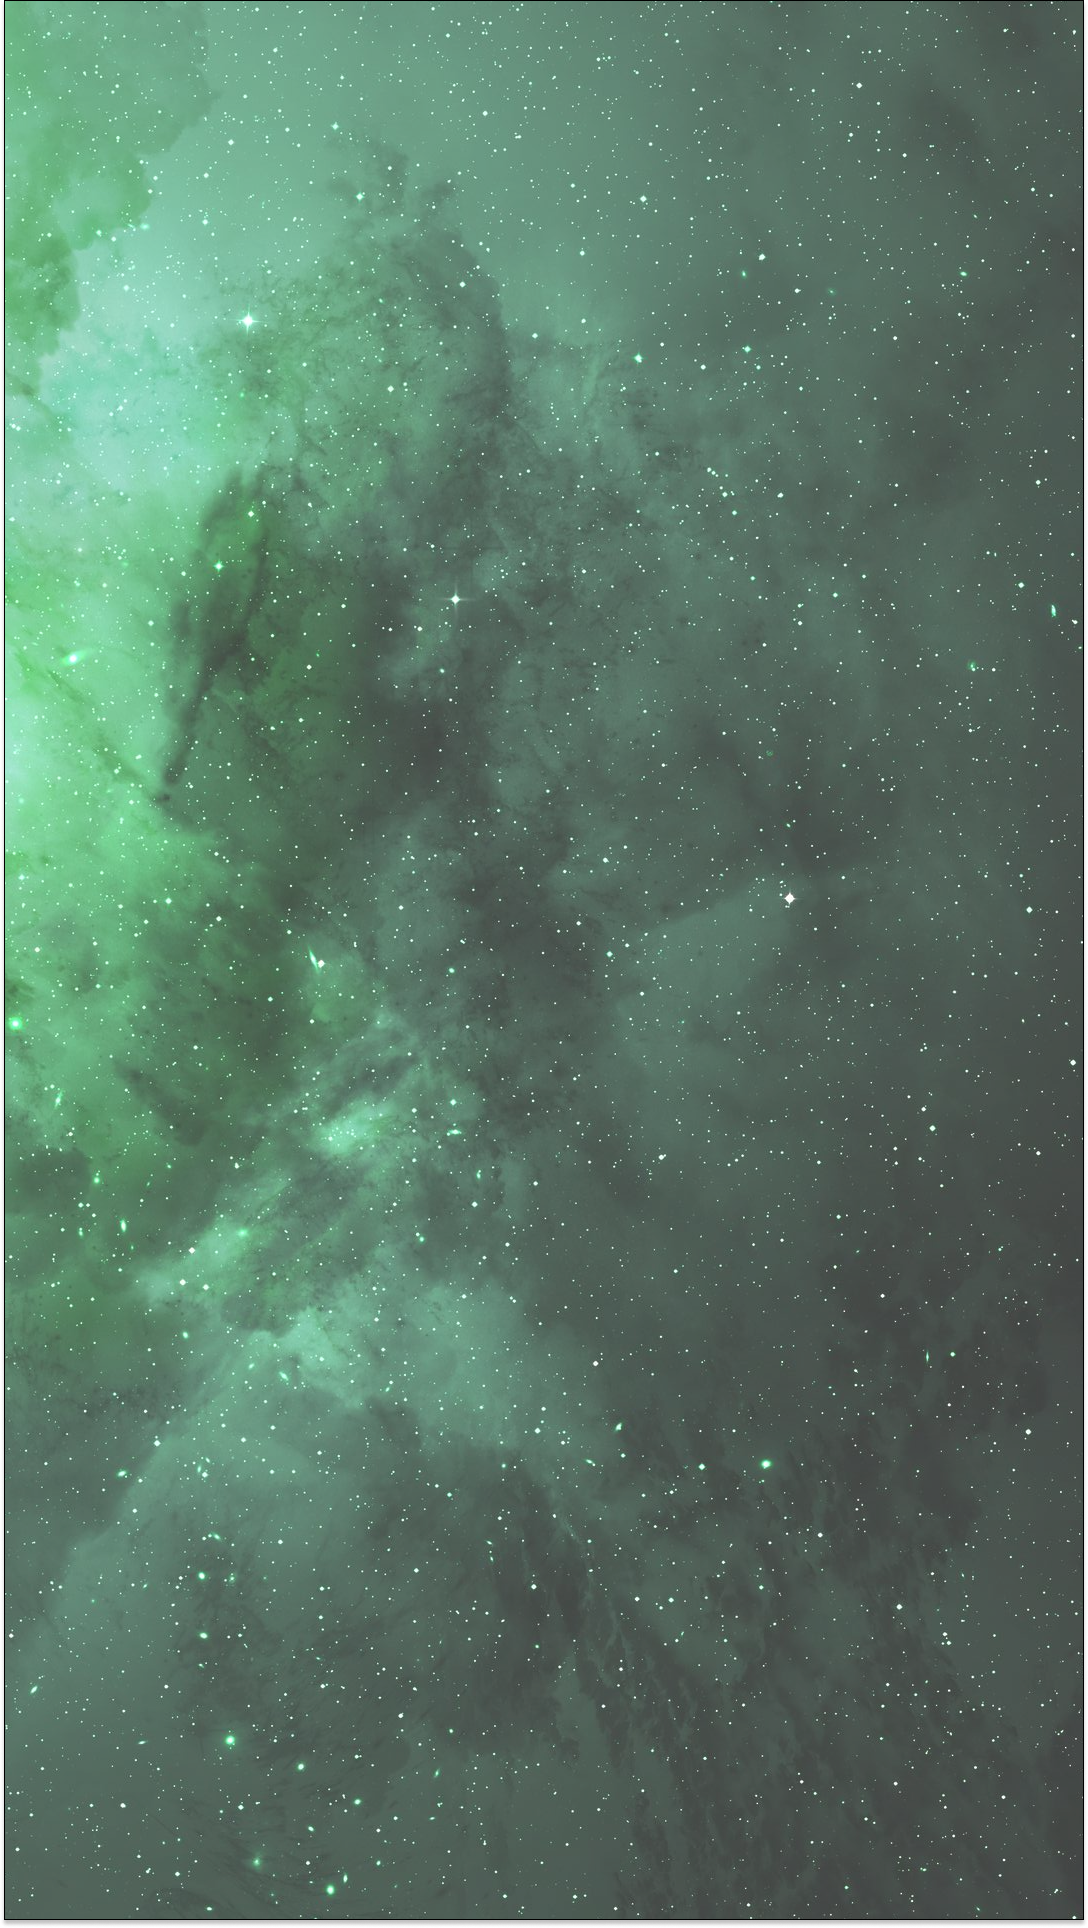
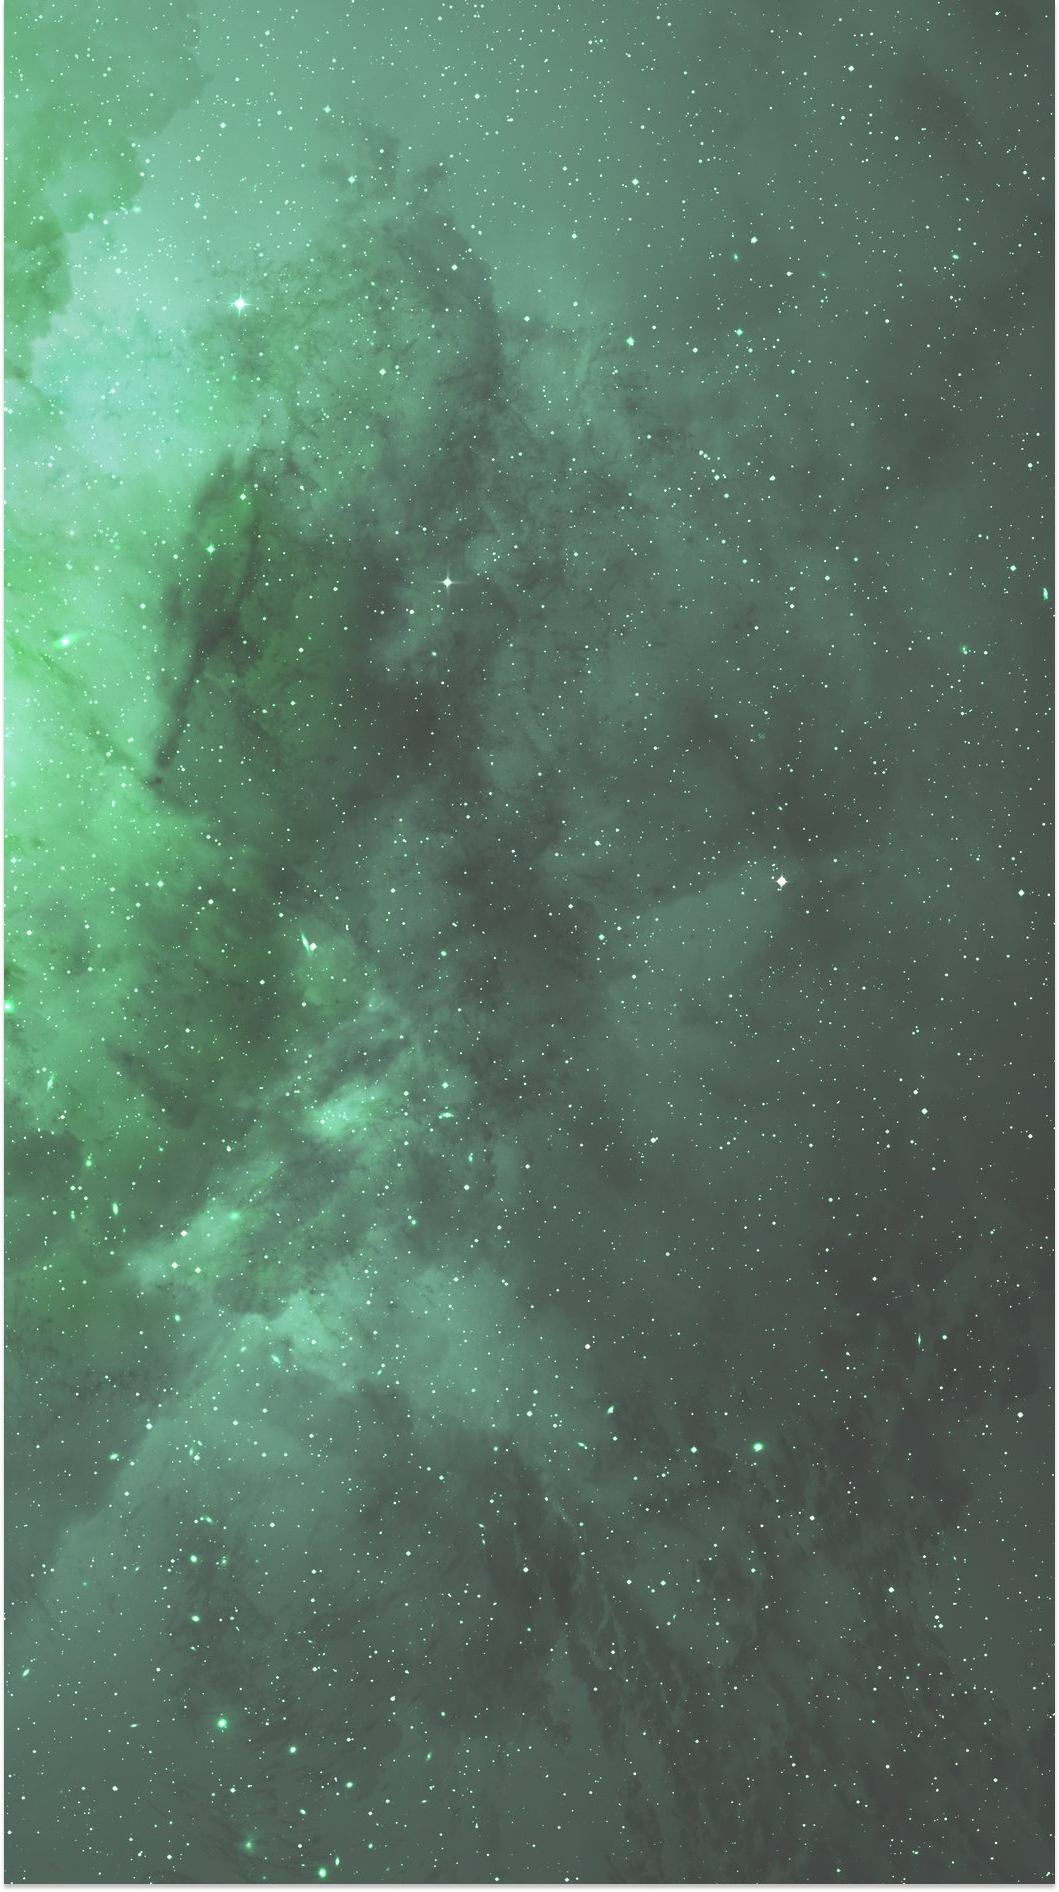
fix: back ground image covering whole screen

diff --git a/apps/academy/src/pages/index.tsx b/apps/academy/src/pages/index.tsx
@@ -9,11 +9,11 @@ import type { NextPageWithLayout } from "@/pages/_app";
 
 const Home: NextPageWithLayout = () => {
   return (
-    <div>
+    <>
       {/* Background with Overlay */}
-      <div className="relative overflow-hidden bg-[url('/home_bg.png')] bg-cover bg-no-repeat object-center">
+      <div className="relative overflow-hidden">
         {/* Overlay */}
-        <div className="absolute inset-0 z-10 bg-black opacity-30"></div>
+        <div className="absolute inset-0 z-10 w-screen bg-black opacity-50"></div>
 
         {/* Hero Section */}
         <div className="relative z-20 pt-[150px] md:pb-[118px] md:pt-[330px]">
@@ -63,7 +63,7 @@ const Home: NextPageWithLayout = () => {
           </div>
         </div>
       </div>
-    </div>
+    </>
   );
 };
 

diff --git a/apps/academy/src/styles.css b/apps/academy/src/styles.css
@@ -1,10 +1,25 @@
 @import "ui/styles.css";
 
 /* Apply the background to the entire page */
+
+html {
+  margin: 0;
+  padding: 0;
+  width: 100vw;
+  overflow-x: hidden; /* Prevent horizontal scroll */
+}
+
 body {
   margin: 0; /* Remove default margin */
-  height: 100%;
+  padding: 0;
+  min-height: 100vh;
+  width: 100%;
+  background-image: url("/bg_home.png");
+  background-size: cover; /* Ensure the image covers the entire page */
+  background-position: center; /* Center the image */
+  background-repeat: no-repeat; /* Prevent the image from repeating */
   position: relative; /* Ensure child elements are positioned relative to body */
+  overflow-x: hidden;
 }
 
 .text-bttf {

diff --git a/apps/academy/src/components/Header.tsx b/apps/academy/src/components/Header.tsx
@@ -42,8 +42,8 @@ const PageHeader: FunctionComponent = () => {
 
   return (
     <header
-      className="absolute top-2 z-40 flex w-full items-center justify-between bg-transparent px-[30px] pt-[30px]
-     md:pt-[20px] "
+      className="absolute top-2 z-40 flex w-full items-center justify-between bg-transparent  px-[15px]
+     pt-[30px] md:px-[30px]  md:pt-[20px]"
     >
       <div className="z-50  hidden lg:flex">
         {pathname === "/" || pathname === "/tracks" || pathname === "/fundamentals" ? (

diff --git a/packages/ui/src/components/Footer/Footer.tsx b/packages/ui/src/components/Footer/Footer.tsx
@@ -63,7 +63,7 @@ export const Footer = () => {
         pathname === "/tracks" || pathname === "/fundamentals" ? "md:hidden" : "md:block"
       } absolute ${
         pathname === "/" ? "bottom-0" : "-bottom-[450px]"
-      }   z-50 w-full px-[30px] pb-14 `}
+      }   z-50 w-full px-[15px] pb-14 md:px-[30px]`}
     >
       <div className=" ">
         {/* border */}

diff --git a/packages/ui/src/styles.css b/packages/ui/src/styles.css
@@ -199,11 +199,11 @@
 }
 
 .main-container {
-  @apply container max-w-7xl;
+  @apply container w-full;
 }
 
 .app-container {
-  @apply mx-auto w-full max-w-[1440px];
+  @apply mx-auto w-full;
 }
 
 .gradient-blur {
